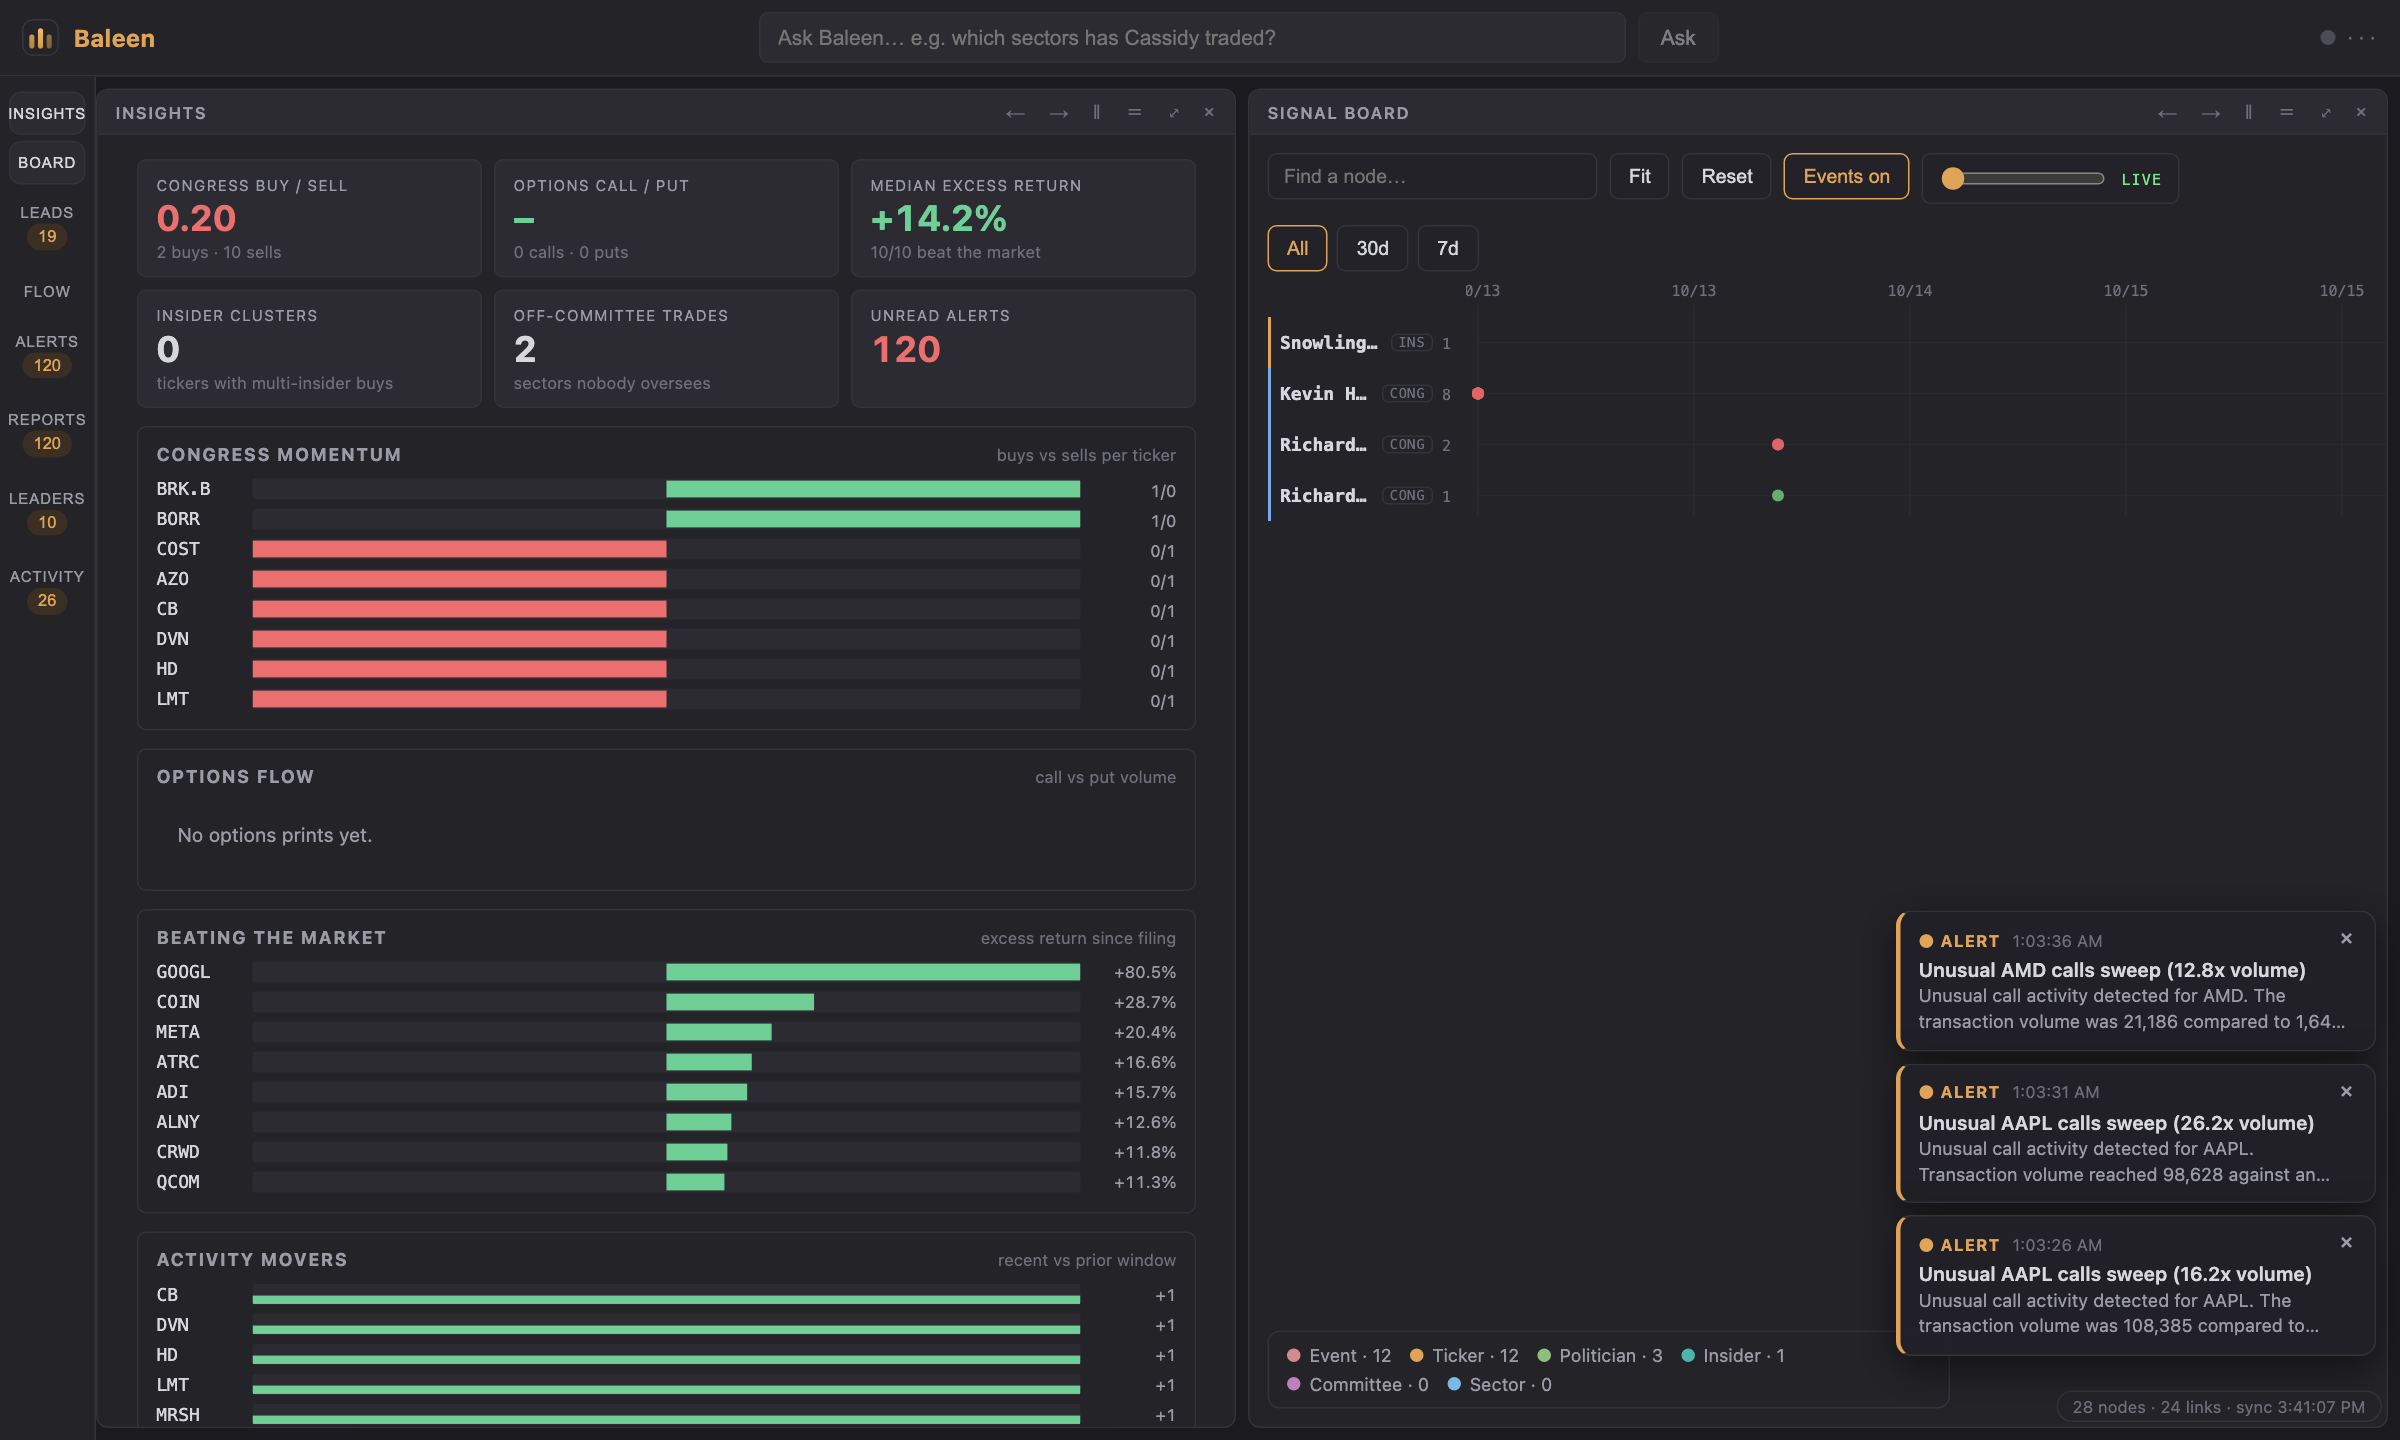
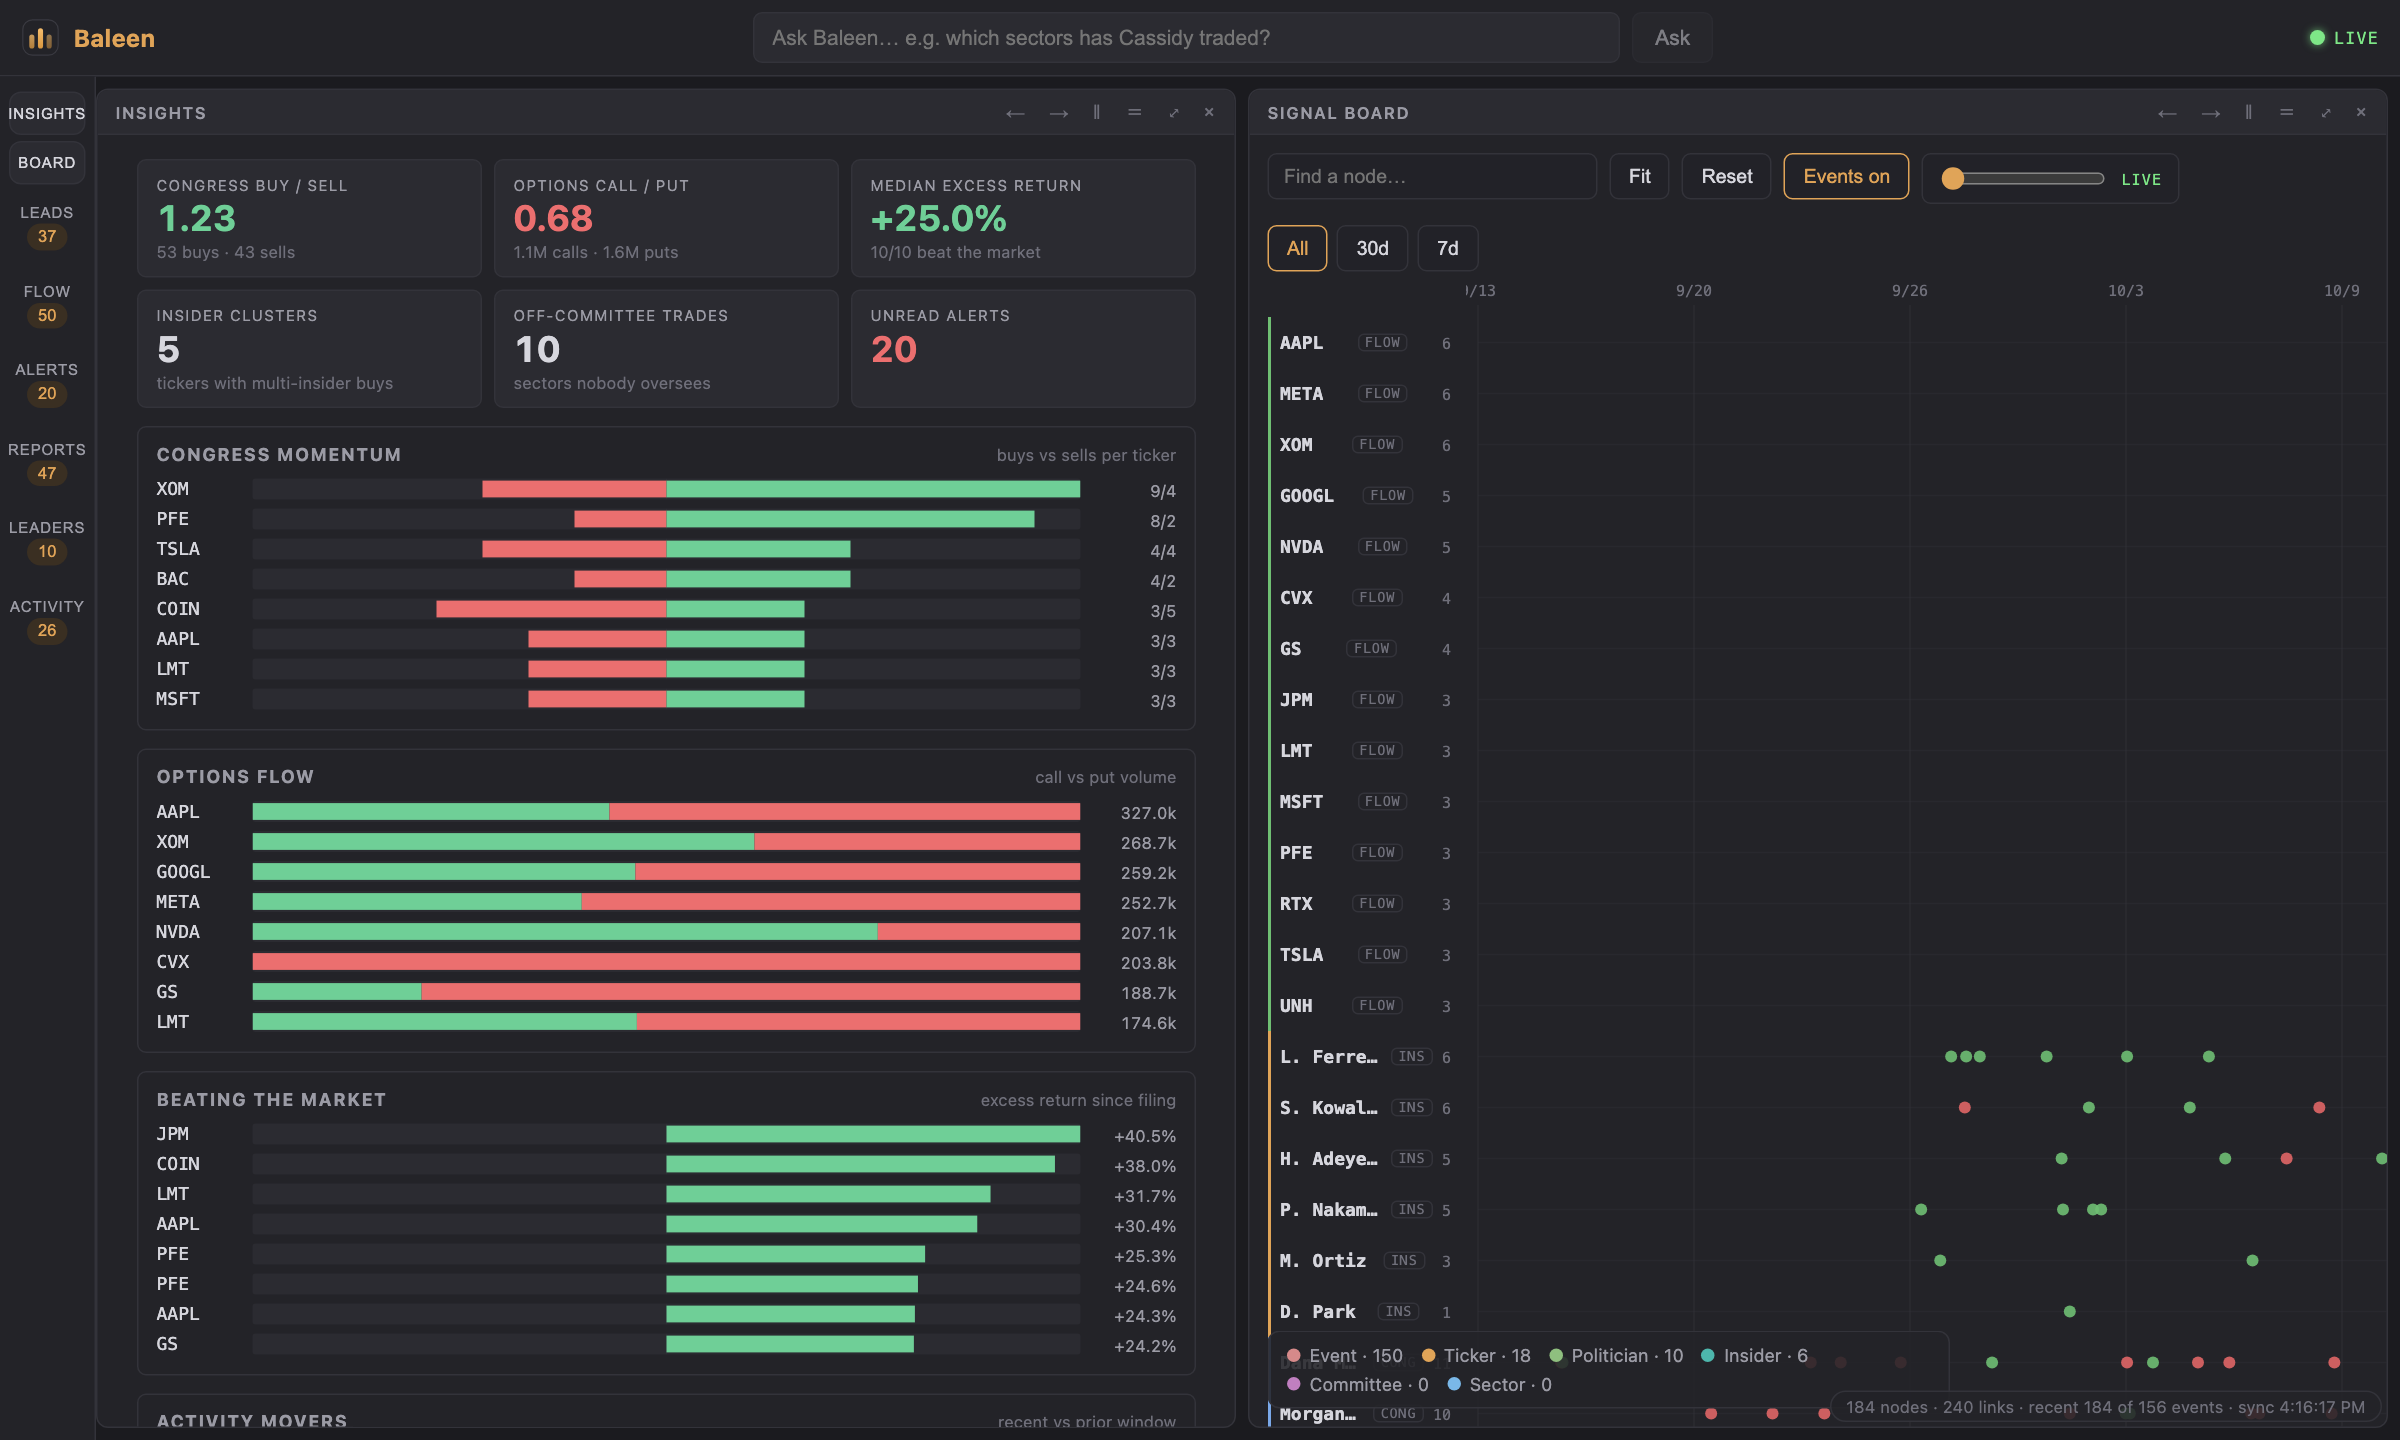
Sort excess-return chart, fix SQL indent, add demo screenshots

diff --git a/frontend/src/components/InsightsPanel.tsx b/frontend/src/components/InsightsPanel.tsx
@@ -59,7 +59,11 @@ export default function InsightsPanel({ signals, leaders, activity, unreadAlerts
     [signals],
   );
   const lead = useMemo(
-    () => leaders.filter((l) => l.excess_pct != null).slice(0, 8),
+    () =>
+      leaders
+        .filter((l) => l.excess_pct != null)
+        .sort((a, b) => (b.excess_pct as number) - (a.excess_pct as number))
+        .slice(0, 8),
     [leaders],
   );
   const movers = useMemo(() => (activity?.movers ?? []).filter((m) => m.ticker).slice(0, 8), [activity]);

diff --git a/backend/app/db/store/leaderboard.py b/backend/app/db/store/leaderboard.py
@@ -29,7 +29,7 @@ class LeaderboardStoreMixin:
                            (raw_json->>'ret_since')::float AS ret_pct,
                            (raw_json->>'excess_since')::float AS excess_pct,
                            url AS source_url
-    FROM raw_tweets
+                    FROM raw_tweets
                    WHERE tweet_id LIKE 'ptr-%'
                      AND jsonb_typeof(raw_json->'ret_since') = 'number'
                      AND jsonb_typeof(raw_json->'excess_since') = 'number'

diff --git a/backend/app/graph/seed_data.py b/backend/app/graph/seed_data.py
@@ -1,4 +1,4 @@
-"""Hand-curated reference dataset for the Baleen demo (see docs/ASSUMPTIONS.md).
+"""Hand-curated reference dataset for the Baleen demo.
 
 Contains US congressional committees, politician memberships, committee→sector
 oversight mappings, and a ticker→sector map. Conceptually sourced from public

diff --git a/README.md b/README.md
@@ -13,6 +13,10 @@
 
 ![Baleen workspace](docs/screenshot.png)
 
+![Story leads and flow tape](docs/screenshot-leads.png)
+
+<sub>Screenshots use synthetic demo data with fictional names.</sub>
+
 Baleen polls public disclosure feeds, extracts typed trade events, and writes them to a Neo4j graph where every node links back to its source filing. A React workspace on top surfaces ranked leads, KPIs and charts, and answers plain-English questions with the Cypher it ran.
 
 ## Features
